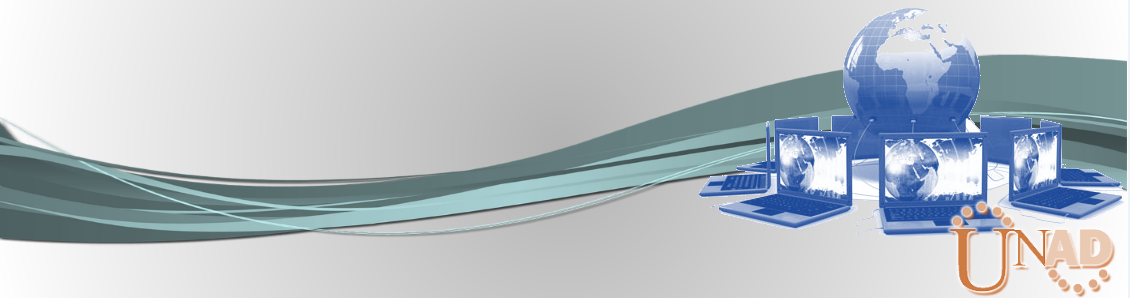
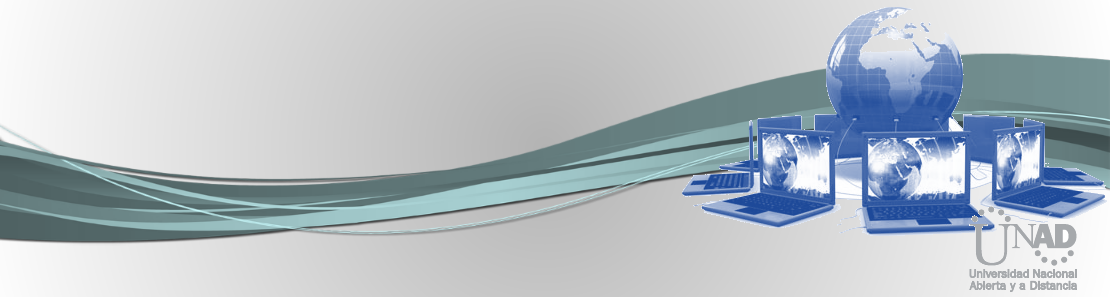
Version 1.12
Cambio en el color de footer
Cambio de tamaño en imagen 1

diff --git a/css/style.css b/css/style.css
@@ -149,8 +149,8 @@ footer{
 	margin:auto;
 	margin-top: 20px;
 	margin-bottom: 20px;
-	-ms-filter: "progid:DXImageTransform.Microsoft.gradient(startColorstr='#007997', endColorstr='#006680')";
-	background:radial-gradient(#006680, #007997);
+	-ms-filter: "progid:DXImageTransform.Microsoft.gradient(startColorstr='#769DA6', endColorstr='#006680')";
+	background:linear-gradient(to top,#006680, #8DAEB7);
 	text-align:center;
 }
 

diff --git a/index.html b/index.html
@@ -69,8 +69,6 @@
 			 <img src="img/certificado.png" alt="Certificado"/>
 			 <img src="img/calidad1000.png" alt="Calidad1000"/>
 			 <img src="img/calidad9001.png" alt="Calidad9001"/>
-			 <img src="img/calidad14001.png" alt="Calidad14001"/>
-			 <img src="img/calidad18001.png" alt="Calidad18001"/>
 			</div>
 		</footer> 
 		 
